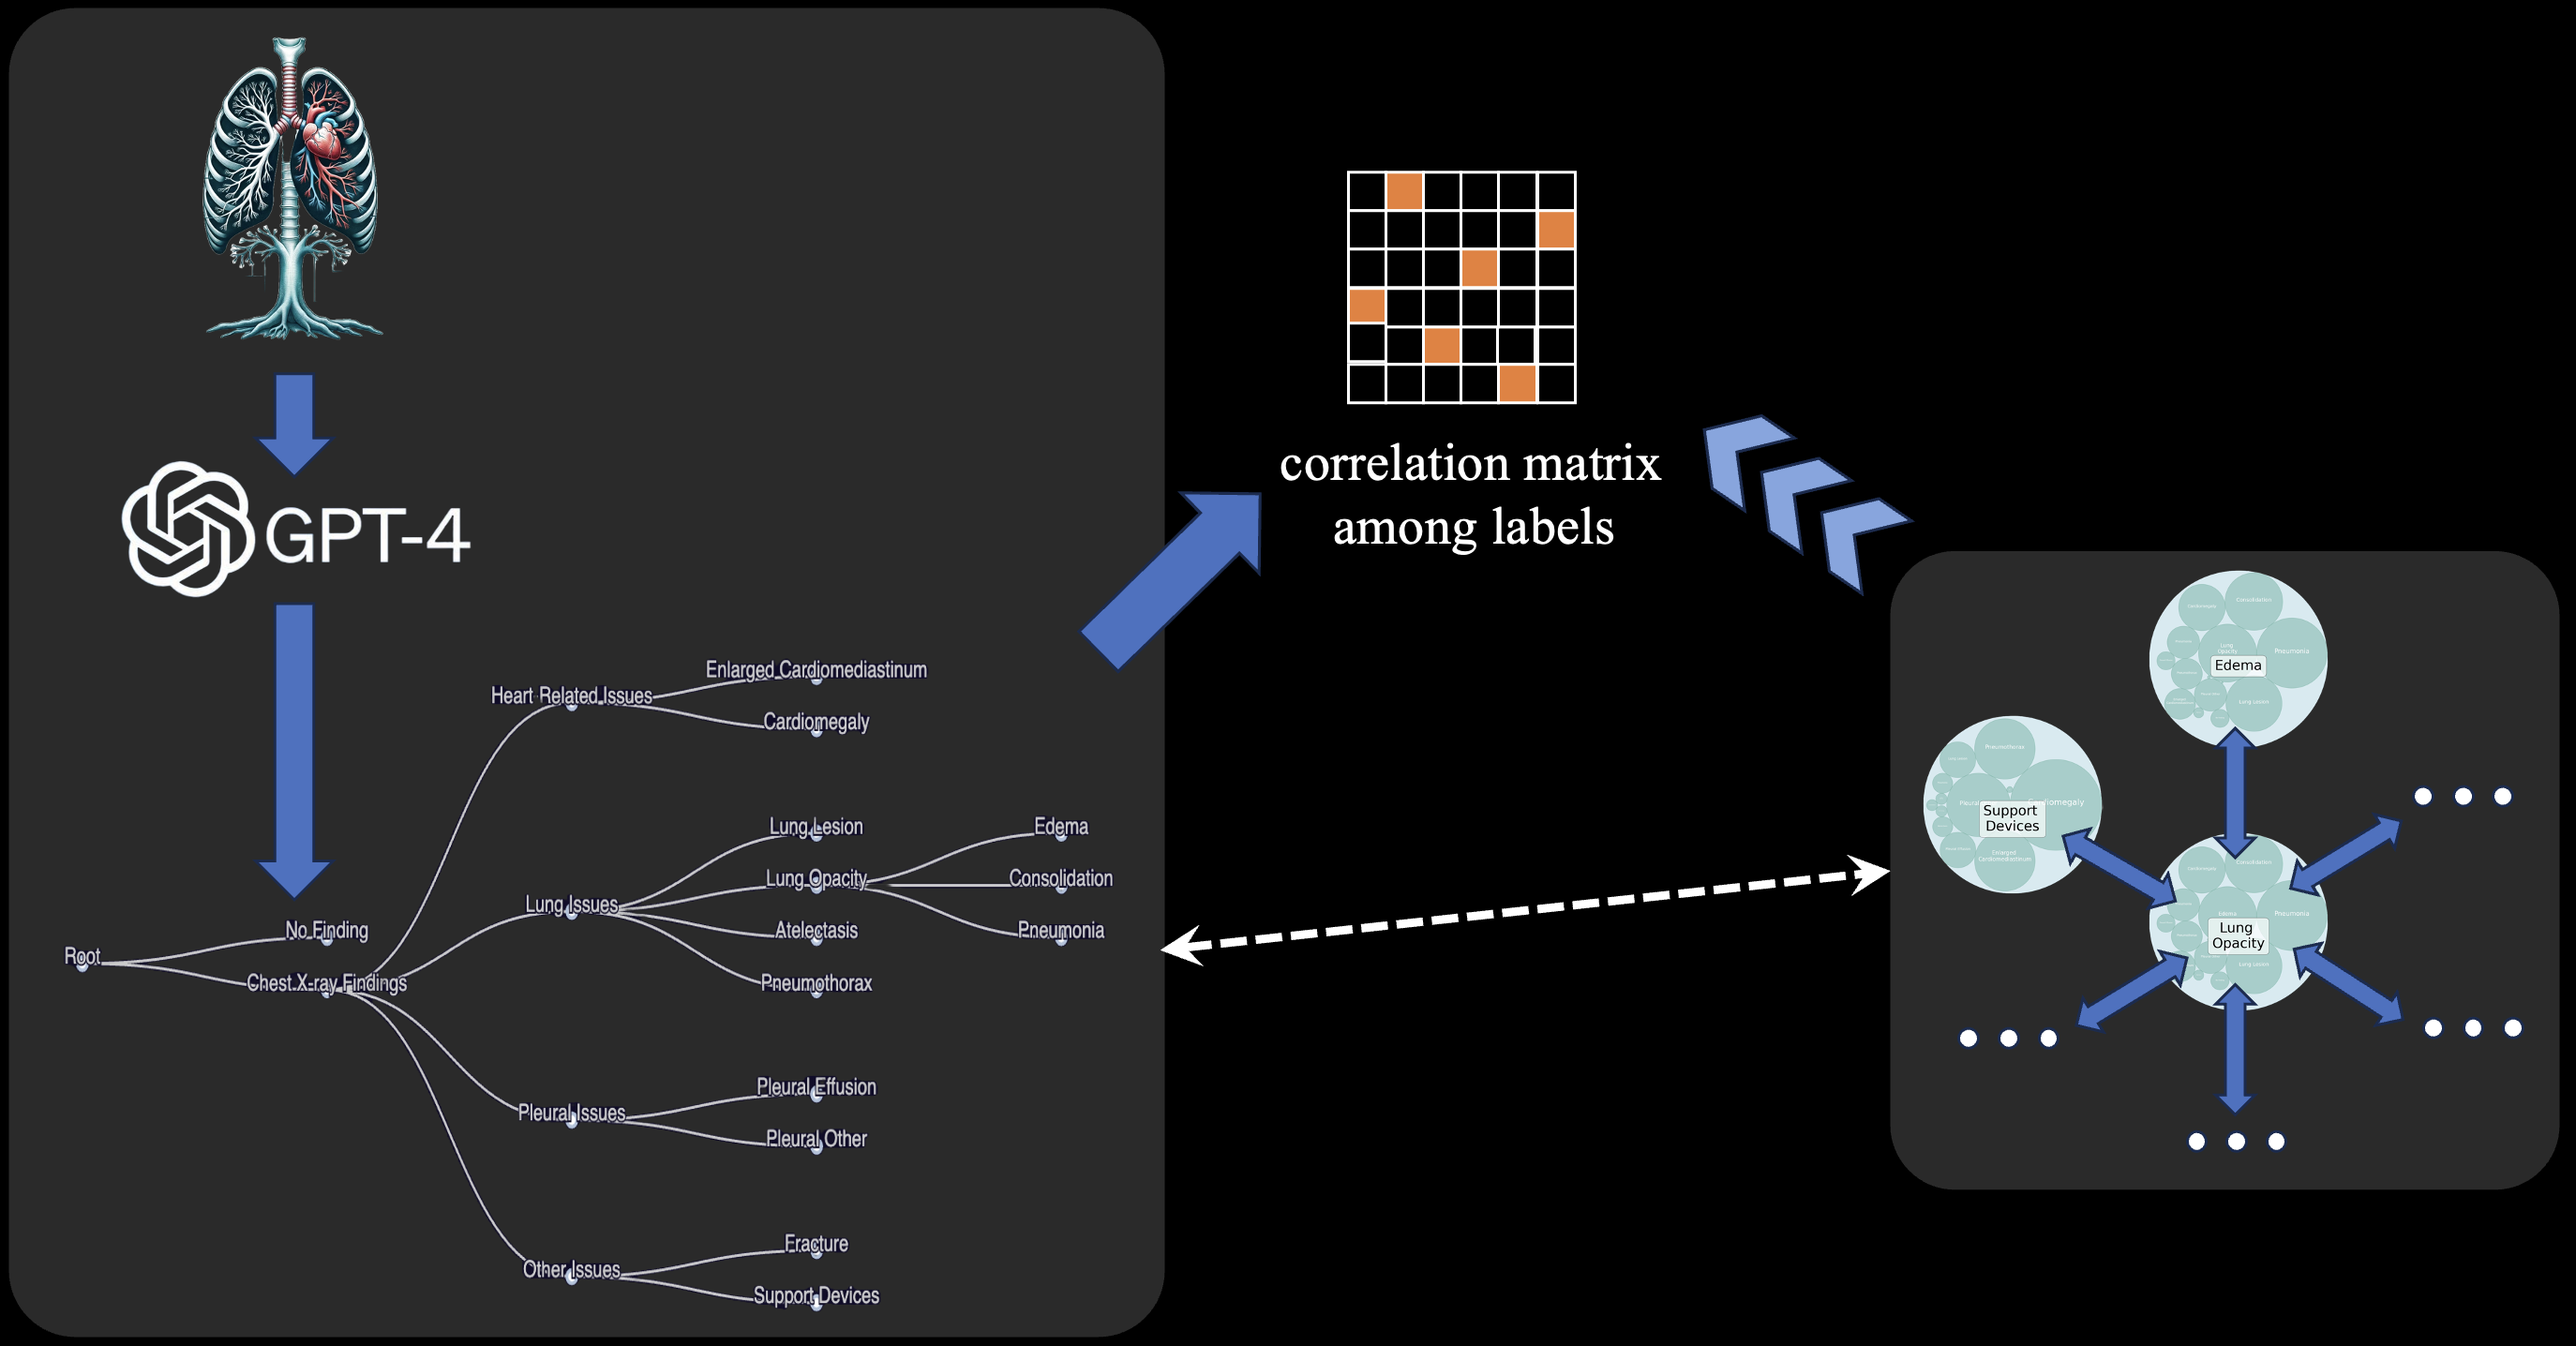
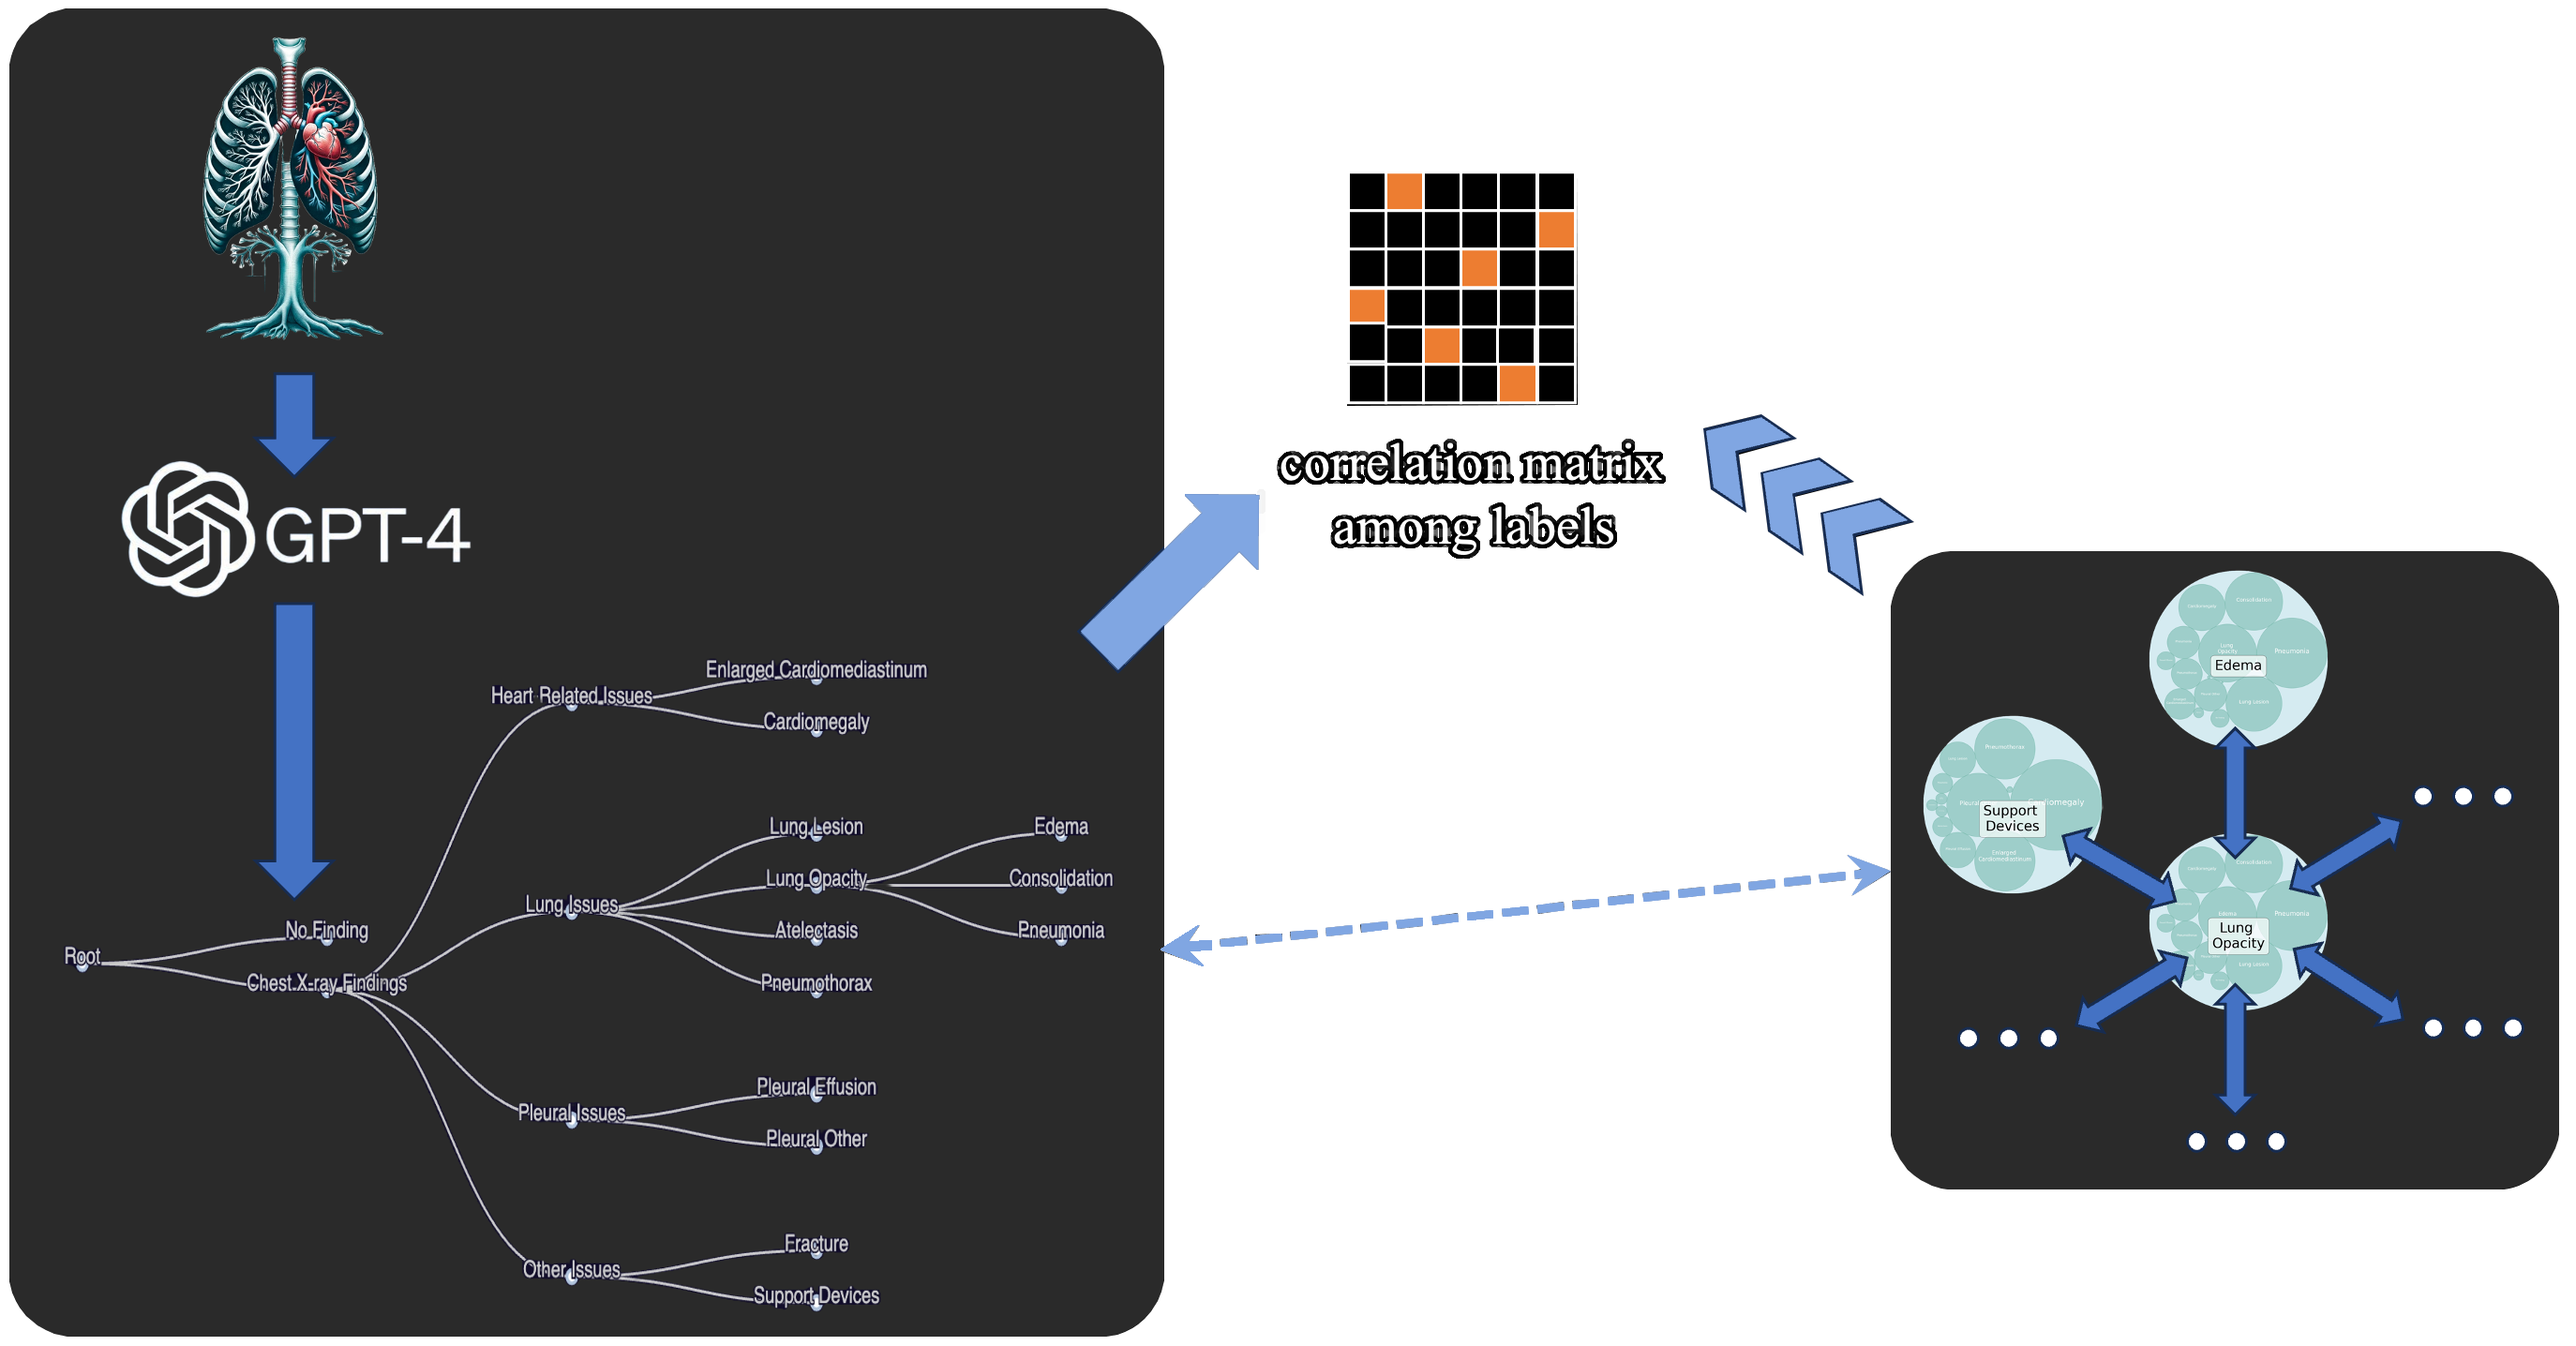
1/16 update image

diff --git a/readme.md b/readme.md
@@ -29,7 +29,7 @@ To solve this problem, I need to interface 2 main challenges
 2. using a knowledge graph to inject the prior knowledge of different diseases into my feature extractor.
 
 ### Model  
-<img src=".\imgs\methodology.png" style="zoom:50%;"></img>
+<img src=".\imgs\methodology_blank.png" style="zoom:50%;"></img>
 Using contrastive learning to align the diseases' representation between text and image, leveraging the power of LLMs to guild the feature extraction in the image branch.
 
 ### Pathology correlation:
